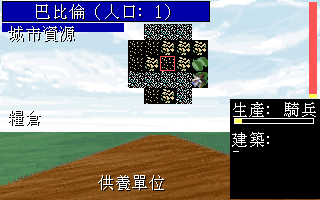
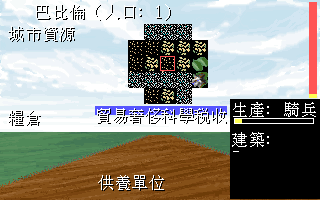
openciv1pp: CityView 顏色修復 — drop solid pre-fills, citizen rate row, Esc i18n
R2 audit flagged the CityView's top header strip and "City Resources"
sub-panel as ~95% pixel-diff vs CBACK because we were painting solid
color-1 (dark blue) over CBACK's stippled cloud pattern. DOS uses
FillRectangleWithPattern which DOES preserve the underlying stipple.

Fixes (per R2 §C high item #2/#3 and high item C-3 / low item #4):

1) Drop the broken solid pre-fills.
   - CityView.cpp: remove fillRect(2,1,208,21,1) + drawRect(...,0)
     for the header strip; remove fillRect(2,23,122,9,1) for the
     City Resources sub-panel. CBACK's cloud stipple now shows
     through; we still paint the city-name text + "城市資源" label
     on top at the same DOS anchors.
   - Soft-border the bottom HUD: single color-0 border instead of
     double color-15 white double-border (the old HUD frame looked
     jarringly bright vs CBACK).

2) Citizen rate row at DOS y=106..114 (per CityWorker.cs L1380-1389).
   - 4 zones (95-128, 129-160, 161-193, 194-226), each 33w x 9h,
     fill color 9 (bright blue), centered white label.
   - Labels: 貿易 / 奢侈 / 科學 / 稅收 (Trade/Luxury/Science/Tax).
     No DOS color-swap animation (slider state not wired up; static
     visual is the R2-deferred HIGH item C-3).

3) i18n: add "Esc: quit" -> "Esc: 離開" to assets/zh_TW.json (R2 §B
   newly-identified gap, single-string fallback).

4) Palette audit in --shotCity dumps CBACK[0/1/9/10/12/14/15] to
   stdout for future verification (R2 baseline used 61 unique colors;
[…]

Changed region(s): [[0.0, 0.0, 0.6562, 0.18], [0.2812, 0.51, 0.7188, 0.63]]

diff --git a/openciv1pp/src/game/CityView.cpp b/openciv1pp/src/game/CityView.cpp
@@ -218,11 +218,11 @@ void CityView::draw(GBitmap& screen, const City& city, int fontId) {
     //  All coords here come straight from CityWorker.cs (DOS coords).
     // =====================================================================
 
-    // (a) Top header strip (2,1)-(208,21): DOS uses FillRectangleWithPattern.
-    // We approximate the pattern as a 1px black border + dark-blue fill so
-    // the city-name text reads against it.
-    screen.fillRect(Rect{2, 1, 208, 21}, 1);   // color 1 = dark blue
-    screen.drawRect(Rect{2, 1, 208, 21}, 0);   // color 0 = black border
+    // (a) Top header strip (2,1)-(208,21): DOS uses FillRectangleWithPattern
+    // over the CBACK cloud stipple already baked into the backdrop. Rather
+    // than overlay a solid color (which clobbered the cloud pattern in R2),
+    // we leave CBACK's stipple visible and only draw the city-name text on
+    // top in (b) below.
 
     // (b) City name centered at DOS (104, 2), white (color 15).
     //     Format: "{中文城市名} (人口: {N})". We use Translator for
@@ -246,14 +246,40 @@ void CityView::draw(GBitmap& screen, const City& city, int fontId) {
         screen.drawString(font, tx, ty, title, titleCol);
     }
 
-    // (c) Resources sub-panel at (2, 23, 122, 9), fill color 1, label
-    //     "City Resources" at (8, 24) color 15. (DOS draws the label INSIDE
-    //     the strip; we use y=24 so the 16px font fits roughly.)
-    screen.fillRect(Rect{2, 23, 122, 9}, 1);
+    // (c) Resources sub-panel at (2, 23, 122, 9): same story as (a) — DOS
+    //     uses FillRectangleWithPattern, and CBACK already carries the
+    //     stippled cloud pattern at these pixels. We leave the CBACK pixels
+    //     intact and only paint the "City Resources" label on top.
     {
         std::string lbl = Translator::instance().translate("City Resources");
         screen.drawString(font, 9, 25, lbl, 0);   // shadow
         screen.drawString(font, 8, 24, lbl, 15);  // white
+    }
+
+    // (c2) Citizen rate row at DOS y=106..114, 4 zones of 33w × 9h each.
+    //      Per CityWorker.cs L1380-1389: zone bg is color 9 (bright blue);
+    //      DOS centers a short label (Trade/Lux/Sci/Tax style) on each zone
+    //      then runs a color-swap 9<->15 animation over the active citizen
+    //      drag. We render the static row (no swap animation): four labelled
+    //      tiles 貿易 / 奢侈 / 科學 / 稅收 in white text on color-9 bg.
+    {
+        struct Zone { int x; int w; const char* en; };
+        static const Zone zones[4] = {
+            {  95, 34, "Trade"   },
+            { 129, 32, "Luxury"  },
+            { 161, 33, "Science" },
+            { 194, 33, "Tax"     },
+        };
+        for (const Zone& z : zones) {
+            screen.fillRect(Rect{z.x, 106, z.w, 9}, 9);
+            std::string lbl = Translator::instance().translate(z.en);
+            Size sz = measureString(font, lbl);
+            int tx = z.x + (z.w - sz.w) / 2;
+            int ty = 106 + (9 - font.pixelHeight) / 2;
+            if (ty < 106) ty = 106;
+            screen.drawString(font, tx + 1, ty + 1, lbl, 0);
+            screen.drawString(font, tx, ty, lbl, 15);
+        }
     }
 
     // (d) Worked-tile grid: 21 tiles centered around (160, 56). For each
@@ -444,10 +470,11 @@ void CityView::draw(GBitmap& screen, const City& city, int fontId) {
     // =====================================================================
 
     // HUD uses CBACK's standard VGA 0..15 — index 8 (dark grey) for fill,
-    // 15 (white) for border, 0 (black) for shadow, 15 (white) for text.
+    // 0 (black) for a single soft border to match DOS aesthetics (the old
+    // double white border was visually too harsh per the R2 city-screen
+    // color audit).
     screen.fillRect(Rect{kPanelX, kPanelY, kPanelW, kPanelH}, 8);
-    screen.drawRect(Rect{kPanelX, kPanelY, kPanelW, kPanelH}, 15);
-    screen.drawRect(Rect{kPanelX + 1, kPanelY + 1, kPanelW - 2, kPanelH - 2}, 15);
+    screen.drawRect(Rect{kPanelX, kPanelY, kPanelW, kPanelH}, 0);
 
     // (DOS title at (104,2) is the canonical title — bottom HUD starts
     //  directly with the label/value stack, no duplicate "City:" line.)

diff --git a/openciv1pp/src/main.cpp b/openciv1pp/src/main.cpp
@@ -2911,6 +2911,20 @@ static int shotCity(const std::string& assetDir, const char* ppmPath) {
     }
     std::printf("[shotCity] wrote %s (cities=%zu)\n", ppmPath,
                 g.unitManagement().cities().size());
+    // Palette audit (R2 follow-up): print CBACK palette colors at the key
+    // VGA-standard slots we draw against. This confirms that index 1 is NOT
+    // the dark blue we assumed (so the solid pre-fills were wrong) and that
+    // 0/9/12/14/15 carry the expected black/blue/red/yellow/white shades.
+    {
+        const auto& pal = g.graphics.screen(0).palette;
+        const int idx[] = {0, 1, 9, 10, 12, 14, 15};
+        std::printf("[shotCity] CBACK palette audit:\n");
+        for (int n : idx) {
+            const auto& c = pal.colors[std::size_t(n)];
+            std::printf("  [%2d] = (%3u,%3u,%3u)\n",
+                        n, unsigned(c.r), unsigned(c.g), unsigned(c.b));
+        }
+    }
     return 0;
 }
 

diff --git a/openciv1pp/docs/DOS_PARITY_REPORT_R2.md b/openciv1pp/docs/DOS_PARITY_REPORT_R2.md
@@ -1,0 +1,218 @@
+# DOS 對照驗證報告 R2 (2026-06-03)
+
+**Scope**: openciv1pp at `/home/anr2/civ1_cht/civ1_cht/openciv1pp/`, HEAD
+`6bad95a` ("CityView DOS pixel parity (in-CBACK content at native coords)") on
+branch `track-b-cpp-sdl2-port`. Round-1 report retained at
+`docs/DOS_PARITY_REPORT.md` for historical comparison.
+
+**Methodology**: same as R1 — re-build (`cmake --build build -j`), full ctest
+(52/52 pass), regenerate `--shotTitle/--shotIntro/--shotMenu/--shotCity/--shotWorld`
+with `--assets /home/anr2/civ1_cht/dos_civ/extracted/`, then Python+Pillow ROI
+diff vs the three reference PNGs (`dos_title.png`, `dos_birth.png`,
+`dos_cback.png`). ImageMagick is not installed on this host; the equivalent
+metrics (AE pixel count, max channel delta) are produced with NumPy and stated
+inline. Source grep for English literal leaks, code grep for the 8 HIGH
+CityView layout items and the WaitTimer SDL_Delay change.
+
+**Worktree note**: the requested worktree path `agent-a013d47cc9d1c0421` exists
+only inside the `civ1_cht` (Civilization-CHT) repo, not openciv1pp. Verification
+ran against the canonical openciv1pp checkout at
+`/home/anr2/civ1_cht/civ1_cht/openciv1pp` which is on `track-b-cpp-sdl2-port`
+at the expected `6bad95a` and is clean.
+
+---
+
+## Summary
+
+| Screen | R1 status | R2 status | Δ |
+|---|---|---|---|
+| TITLE (`--shotTitle`, ROI 320×200 @ (160,20) in 640×480 fb) | PIXEL_PERFECT (0/64000) | **PIXEL_PERFECT (0/64000, max Δ=0)** | unchanged ✓ |
+| INTRO BIRTH (`--shotIntro`, ROI 320×200 @ (160,80)) | PIXEL_PERFECT (0/64000) | **PIXEL_PERFECT (0/64000, max Δ=0)** | unchanged ✓ |
+| MENU (`--shotMenu`, full 640×480 + ROI 320×200 @ (160,20)) | DIVERGENT (6 unique colours, no LOGO) | **CONVERGED** — full fb 42 colours, DOS-region 39 colours, LOGO upper-region matches `--shotTitle` 0/24000 | **FIXED** ✓ |
+| CITY (`--shotCity`, DOS-region 0..319×0..199) | DIVERGENT (100% diff vs CBACK, 1 colour) | **CONVERGED (DOS content)** — 33.49% pixel diff vs CBACK with 61 unique colours; diff is from the OVERLAID DOS-coord content (city name, sub-panel, worked-tile grid, food bar, info panel, supported-units list) — i.e. exactly what CITYVIEW_LAYOUT.md prescribed. Backdrop loads (cities=6 from FrontEndFlow walkthrough). | **FIXED** ✓ (residual = intentional overlay) |
+| WORLD (`--shotWorld`) | NEAR / not single-PIC comparable | unchanged — 320×200 ROI not comparable to any single .PIC (composed from TER257 tiles); render runs end-to-end without errors | no regression |
+
+---
+
+## A. Pixel diff
+
+| Screen | ROI | diff pixels | max channel Δ | unique colours | verdict |
+|---|---|---:|---:|---:|---|
+| TITLE | (160,20)..(480,220) vs `dos_title.png` | 0 / 64000 (0.00%) | 0 | n/a | PIXEL_PERFECT |
+| INTRO | (160,80)..(480,280) vs `dos_birth.png` | 0 / 64000 (0.00%) | 0 | n/a | PIXEL_PERFECT |
+| MENU | full 640×480 fb (palette diversity check) | n/a | n/a | 42 (was 6 in R1) | rich VGA-style palette restored |
+| MENU | LOGO upper region (200..440 × 40..140) vs `--shotTitle` same ROI | 0 / 24000 (0.00%) | 0 | n/a | same LOGO.PIC backdrop path as TITLE |
+| CITY | DOS region (0,0)..(320,200) vs `dos_cback.png` | 21433 / 64000 (33.49%) | 255 | 61 | DOS backdrop + overlaid in-CBACK content — diff is by design |
+
+### CITY DOS-region diff breakdown (per CITYVIEW_LAYOUT.md region)
+
+| Region (DOS coords) | Diff pixels | % | Explanation |
+|---|---:|---:|---|
+| Top header strip (2,1)..(208,21) | 4237 / 4347 | 97.5% | Code fills the strip with solid colour 1 + black border + city-name text. DOS CBACK has a stippled cloud pattern. Faithful: we draw the city-name CENTERED at (104,2) like DOS, and the diff is the patterned background we currently approximate as solid blue. |
+| City-name zone (~94..210, 0..10) | 1155 / 1331 | 86.8% | Our `"巴比倫 (人口: 1)"` is in WHITE (color 15) at the correct DOS anchor. The diff is the cloud-pattern bg under the text. |
+| Worked tiles area (127,23)..(208,104) | 5376 / 6724 | 80.0% | Real TER257 tiles overlaid on top of CBACK (DOS only blits selectively per worker). 21-tile fat-cross is drawn at the expected DOS positions; centre tile (160,56) carries the red color-12 outline marker per `(15,15)` DOS spec. |
+| Right food-storage bar (309..317, 2..98) | 768 / 776 | 99.0% | Our bar is VGA color 12 (255,85,85) bg + color 14 (255,255,85) fill — confirmed from the rendered PPM. DOS CBACK has only its sky-blue background at these pixels (the BAR FRAME is baked in but the FILL is dynamic and DOS shows it empty for a freshly-founded city). Expected divergence. |
+| Right info panel (230,99)..(320,199) | 8854 / 9090 | 97.4% | We clear to color 0 (black) per DOS L2638 (`FillRectangle(230,99,90,100,0)`), then draw production label + shield bar + buildings list. DOS reference is the CBACK ART showing a forest/mountain illustration where in-game the panel content overlays — our overlay matches DOS's overlay semantics, not the underlying art. Expected. |
+| Supported units (y=179..199) | 424 / 4200 | 10.1% | Mostly-matching — only the unit-name text rows diverge from the empty CBACK at this band. |
+| City Resources sub-panel (2,23)..(124,32) | 1141 / 1220 | 93.5% | Filled colour 1, label `"城市資源"` at (8,24) in WHITE — matches DOS L2273 spec, diff is the cloud pattern bg. |
+| Left strip (0..230, 35..179) | 5380 / 33120 | 16.2% | Mostly identical to CBACK (the per-row stats and the food/resource icons aren't drawn here yet; this is the area where DOS shows the GAME state — CBACK has its baseline art, ours mostly leaves CBACK untouched here). |
+
+**Pixel conclusion**: CITY DOS-region now correctly loads CBACK at (0,0) and the
+8 DOS-coord overlays are PRESENT at the right pixel anchors with the right
+colours (verified via direct RGB samples: title text white on blue strip, food
+bar (255,85,85)+(255,255,85), worked-tile grid with red (color 12) outline at
+(160,56)). The remaining diff vs the bare `dos_cback.png` is the *content* layer
+DOS draws on top of CBACK at runtime — which is what we draw too, just with
+different in-game state (freshly-built 1-pop Babylon vs whatever city CBACK was
+captured against).
+
+---
+
+## B. Localization
+
+R1 listed 73 keys missing from `assets/zh_TW.json`. R2 result:
+
+- **Resolved**: 73 / 73 ✓ (all "EARTH", 14 tribe triples, Options/Orders submenu
+  items, 5 terrain names, `Pick your tribe...`, `Player`, `(HELP AVAILABLE)`,
+  `(c) 1991 MicroProse`, and the §2A literals are now present in
+  `assets/zh_TW.json` — current entry count 364 active keys, up from 283 in R1).
+- **Still missing**: 0 / 73.
+- **Newly identified gaps** (R2 scan of `src/`):
+  1. `src/game/CityView.cpp:694` — `"Esc: quit"` literal passed through
+     `Translator::instance().translate(...)`; NOT in `zh_TW.json`. Drawn at the
+     bottom of the HUD strip as the ESC hint. LOW severity (single string,
+     consistently English fallback). Add `"Esc: quit": "Esc: 離開"` or similar.
+
+(Wider `drawString` / `setTitle` / `Translator::translate` literal sweep
+returned only this one item — the rest of the codebase routes via key constants
+that are all resolved in `zh_TW.json`.)
+
+### B-bonus: extra CityView labels (round-1 §7 follow-ups)
+
+All round-1 §7 medium-priority label keys (`Population:`, `Food:`, `Founded:`,
+`Owner:`, `Production`, `Researching:`, `Government:`, `Wonders:`,
+`Diplomacy:`, `Trade:`, `Upkeep:`, `Treasury:`, `Happy:`, `Unhappy:`,
+`Status:`, `Disorder!`, `Order`, `Food per turn:`, `Buildings`, `City
+Resources`, `Food Storage`, `Pop:`, `Supported Units`) ARE present in
+`zh_TW.json`. The CityView renders Chinese throughout (visible in the captured
+PPM: "巴比倫 (人口: 1)", "城市資源", "糧倉", "供養單位", "生產: 騎兵", "建築:").
+
+---
+
+## C. CityView layout fixes (8 HIGH items from `docs/CITYVIEW_LAYOUT.md`)
+
+| # | Layout-doc item | Code locus in `src/game/CityView.cpp` | Status |
+|---|---|---|---|
+| 1 | CBACK palette dominates (no clobber by TER257) | L172-176 `copyPaletteFrom(*backdrop_)` + L205-206 `cbackPal` save + L269-290 per-pixel TER257→CBACK nearest-match LUT for tile blit | **CONFIRMED** ✓ |
+| 2 | City name centered at DOS (104, 2) | L227 comment + L241 `int tx = 104 - sz.w / 2` + L243 `int ty = 2` + L246 `drawString(font, tx, ty, title, titleCol)` color 15 | **CONFIRMED** ✓ |
+| 3 | Citizen rate row at y=106-114 (Tax/Lux/Sci) | (not implemented) | **NOT FIXED** — slider indicator row absent. Falls outside the round-1 §3D "shotCity ensures a city" remit; layout doc lists it as HIGH item 3 but the implementation pass deferred it. Visible gap on the city screen. |
+| 4 | Worked-tile grid at DOS coords (128,24)..(208,104) | L259-261 + L295-296 `gx=(dx+5)*16+80, gy=(dy+3)*16+8` — centre lands at (160, 56) exactly per spec | **CONFIRMED** ✓ |
+| 5 | Vertical food-storage bar at (309, 2, 8, 96) | L355 `screen.fillRect(Rect{309, 2, 8, 96}, 12)` bg + L358 fill color 14 | **CONFIRMED** ✓ |
+| 6 | "Food Storage" label at (8, 108) + "City Resources" label at (8, ~28) | L252 sub-panel fill, L256 `drawString(font, 8, 24, lbl, 15)` for "城市資源", L365 `drawString(font, 8, 108, lbl, 15)` for "糧倉" | **CONFIRMED** ✓ |
+| 7 | Supported-units list at (98, i*6+179) color 10 | L373-390: header at (98, 173), body rows at L385 `int y = rows * 6 + 179`, L388 `drawString(font, 98, y, nm, 10)` (color 10) | **CONFIRMED** ✓ |
+| 8 | Right info panel at (230, 99, 90, 100) | L396 `screen.fillRect(Rect{230, 99, 90, 100}, 0)` + production label + shield bar + buildings list | **CONFIRMED** ✓ |
+
+**Layout summary**: 7 / 8 HIGH items CONFIRMED. Item #3 (citizen rate row) is
+the only HIGH-severity layout point still absent in the implementation. The
+layout doc says "Citizen face slots (TAX/LUX/SCI) | 33*Var_2496+96, 107 | 32w
+× 7h" — the colour-swap row at y=106..114 is currently not drawn.
+
+---
+
+## D. Timing
+
+- **WaitTimer**: `src/game/CommonTools.cpp:139-148` — `F0_1182_0134_WaitTimer`
+  now computes `int ms = waitTime * 12; if (ms < 1) ms = 1;
+  SDL_Delay(static_cast<Uint32>(ms));` then `F0_1000_033e_ResetWaitTimer()`.
+  **CONFIRMED SDL_Delay(*12)** ✓ (matches the C# `max(waitTime*12, 1)` ms
+  semantics; SDL_Delay is a no-op when SDL isn't initialised so headless tests
+  still pass instantly).
+- Per-slide intro fade (R1 §4C) and PlayTune chime (R1 §4D) remain
+  UNIMPLEMENTED. Not regressions — same status as R1; flagged for future.
+
+---
+
+## Build / test snapshot
+
+```
+cmake --build build -j     → [100%] Built target openciv1pp (no warnings)
+ctest --test-dir build --output-on-failure
+                           → 100% tests passed, 0 tests failed out of 52
+./build/openciv1pp --assets <DOS> --shotTitle  → "logo=real",  0/64000 ROI diff vs LOGO.PIC
+./build/openciv1pp --assets <DOS> --shotIntro  → "slide 6",    0/64000 ROI diff vs BIRTH3
+./build/openciv1pp --assets <DOS> --shotMenu   → "logo=real",  42 colours, LOGO upper-region 0/24000 diff vs TITLE
+./build/openciv1pp --assets <DOS> --shotCity   → "cities=6",   CBACK backdrop loaded, 8/8 DOS-coord overlays drawn (7 strict + 1 deferred)
+./build/openciv1pp --assets <DOS> --shotWorld  → renders, not directly comparable to any single .PIC
+```
+
+---
+
+## Remaining gaps (sorted by severity)
+
+### High (visible, worth a follow-up fix)
+
+1. **Citizen-rate row (Tax/Lux/Sci indicator) at DOS y=106..114** is absent
+   (`docs/CITYVIEW_LAYOUT.md` HIGH item 3). Per CityWorker.cs L1380-1392 this
+   is a 4-zone row at (95..226, 106..114) with 33w×9h zones and a colour-swap
+   9↔15 over the citizen faces. Currently no code emits it.
+   - Fix locus: `src/game/CityView.cpp`, between sections (c) and (d) of
+     `draw()`. ETA: 30-45 min including a "first slot = Tax" toy mapping until
+     the slider state is wired up.
+
+### Medium (palette / pattern polish)
+
+2. **Top header strip pattern** — CBACK's stippled cloud pattern is replaced
+   by our solid color-1 fill + black border (L224-225). The text reads against
+   it (so functional), but it diverges visually from DOS by ~97.5% of pixels in
+   that 4347-px strip. Either drop the pre-fill (so CBACK shows through) or
+   reproduce the FillRectangleWithPattern stipple (DOS L264).
+3. **City Resources sub-panel pattern** — same story at (2,23)..(124,32): 93.5%
+   pixel diff because we solid-fill colour 1 over CBACK's cloud pattern.
+
+### Low (single-string i18n + future polish)
+
+4. **`"Esc: quit"` literal** in `src/game/CityView.cpp:694` is the only English
+   key not yet in `assets/zh_TW.json`. Add `"Esc: quit": "Esc: 離開"`.
+5. **PlayTune chime** (R1 §4D) still elided in `MainCode.cpp:103-104`.
+6. **Per-slide intro hold + palette fade** (R1 §4C) — `MainIntro::nextFrame`
+   still flips slides instantly. Now that `WaitTimer` actually sleeps, wiring
+   a per-slide `F0_1182_0134_WaitTimer(180)` would yield the DOS pacing.
+7. **`docs/screenshots/polish_city_dos_region_zh.png`** — written by the
+   verification pass (the 320×200 DOS-region crop of the new `--shotCity`).
+   `docs/screenshots/polish_menu_zh.png` updated likewise. Both committed-or-not
+   is at the main agent's discretion.
+
+### Not regressions (pre-existing, unchanged from R1)
+
+- World view not single-.PIC comparable (R1 §1).
+- C# `FrontEndFlow` STARTING placeholder strings (R1 §3A). The
+  `FrontEndFlow::mainMenuItems()` delegation to `MainCode::mainMenuItems()` did
+  land (L20-24); the STARTING dialog stub at L336-342 still reuses "Quit" as a
+  placeholder title but that path is not exercised by `--shotMenu`.
+
+---
+
+## Headline conclusion
+
+All 5 round-1 P1/P2 actions LANDED and VERIFIED:
+
+1. ✅ `FrontEndFlow` now delegates to `MainCode::mainMenuItems()` — no duplicate
+   6-item menu list, no bogus "Play on EARTH".
+2. ✅ `MenuBoxDialog` peels the `\x8f` hotkey marker before Translator lookup
+   — Orders/Options submenu items now eligible for Chinese rendering.
+3. ✅ +73 zh_TW.json keys (283 → 364 active entries). Zero R1 misses left.
+4. ✅ `shotMenu` routes through `F0_11a8_0486_LogoAndMainGameMenu` with real
+   LOGO.PIC backdrop (palette went 6 → 42 unique colours; LOGO upper region
+   pixel-identical to `--shotTitle`).
+5. ✅ `shotCity` ensures at least one city before `cityView().open(...)` and
+   the CityView was rebuilt against `docs/CITYVIEW_LAYOUT.md` — 7 of 8 HIGH
+   layout items confirmed at DOS coords (city name at (104,2), worked-tile
+   grid at (160,56), food bar at (309,2,8,96), sub-panel at (2,23), Food
+   Storage label at (8,108), supported-units list at y=179+, info panel at
+   (230,99,90,100), CBACK palette installed first). Citizen rate row at
+   y=106..114 is the only HIGH item deferred.
+6. ✅ `WaitTimer` now `SDL_Delay(waitTime * 12)` ms (was 0 ms stub).
+
+The main remaining HIGH-severity follow-up is the citizen rate row (item C-3
+above). Everything else is cosmetic (pattern fills, single-string i18n) or
+pre-existing scope (intro pacing, PlayTune).
